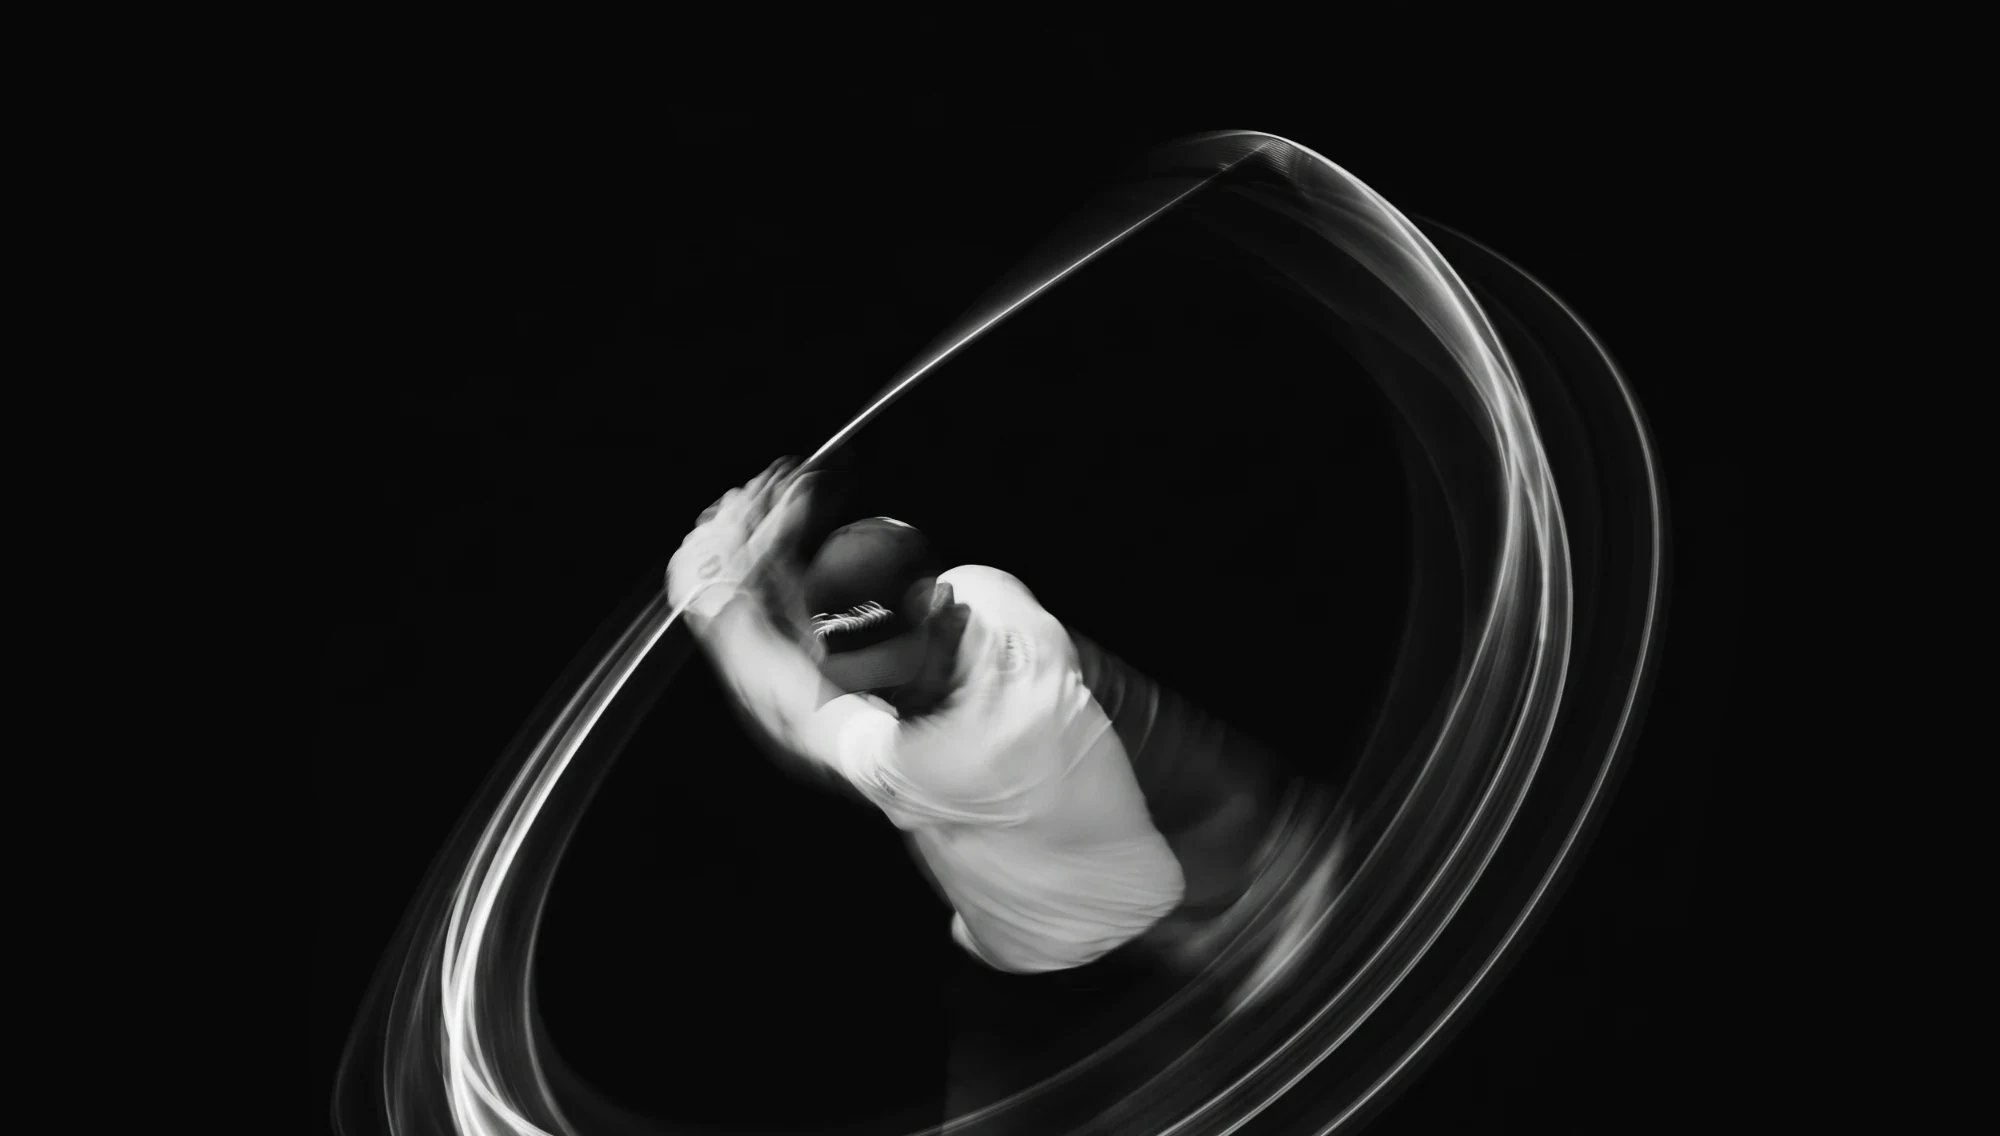
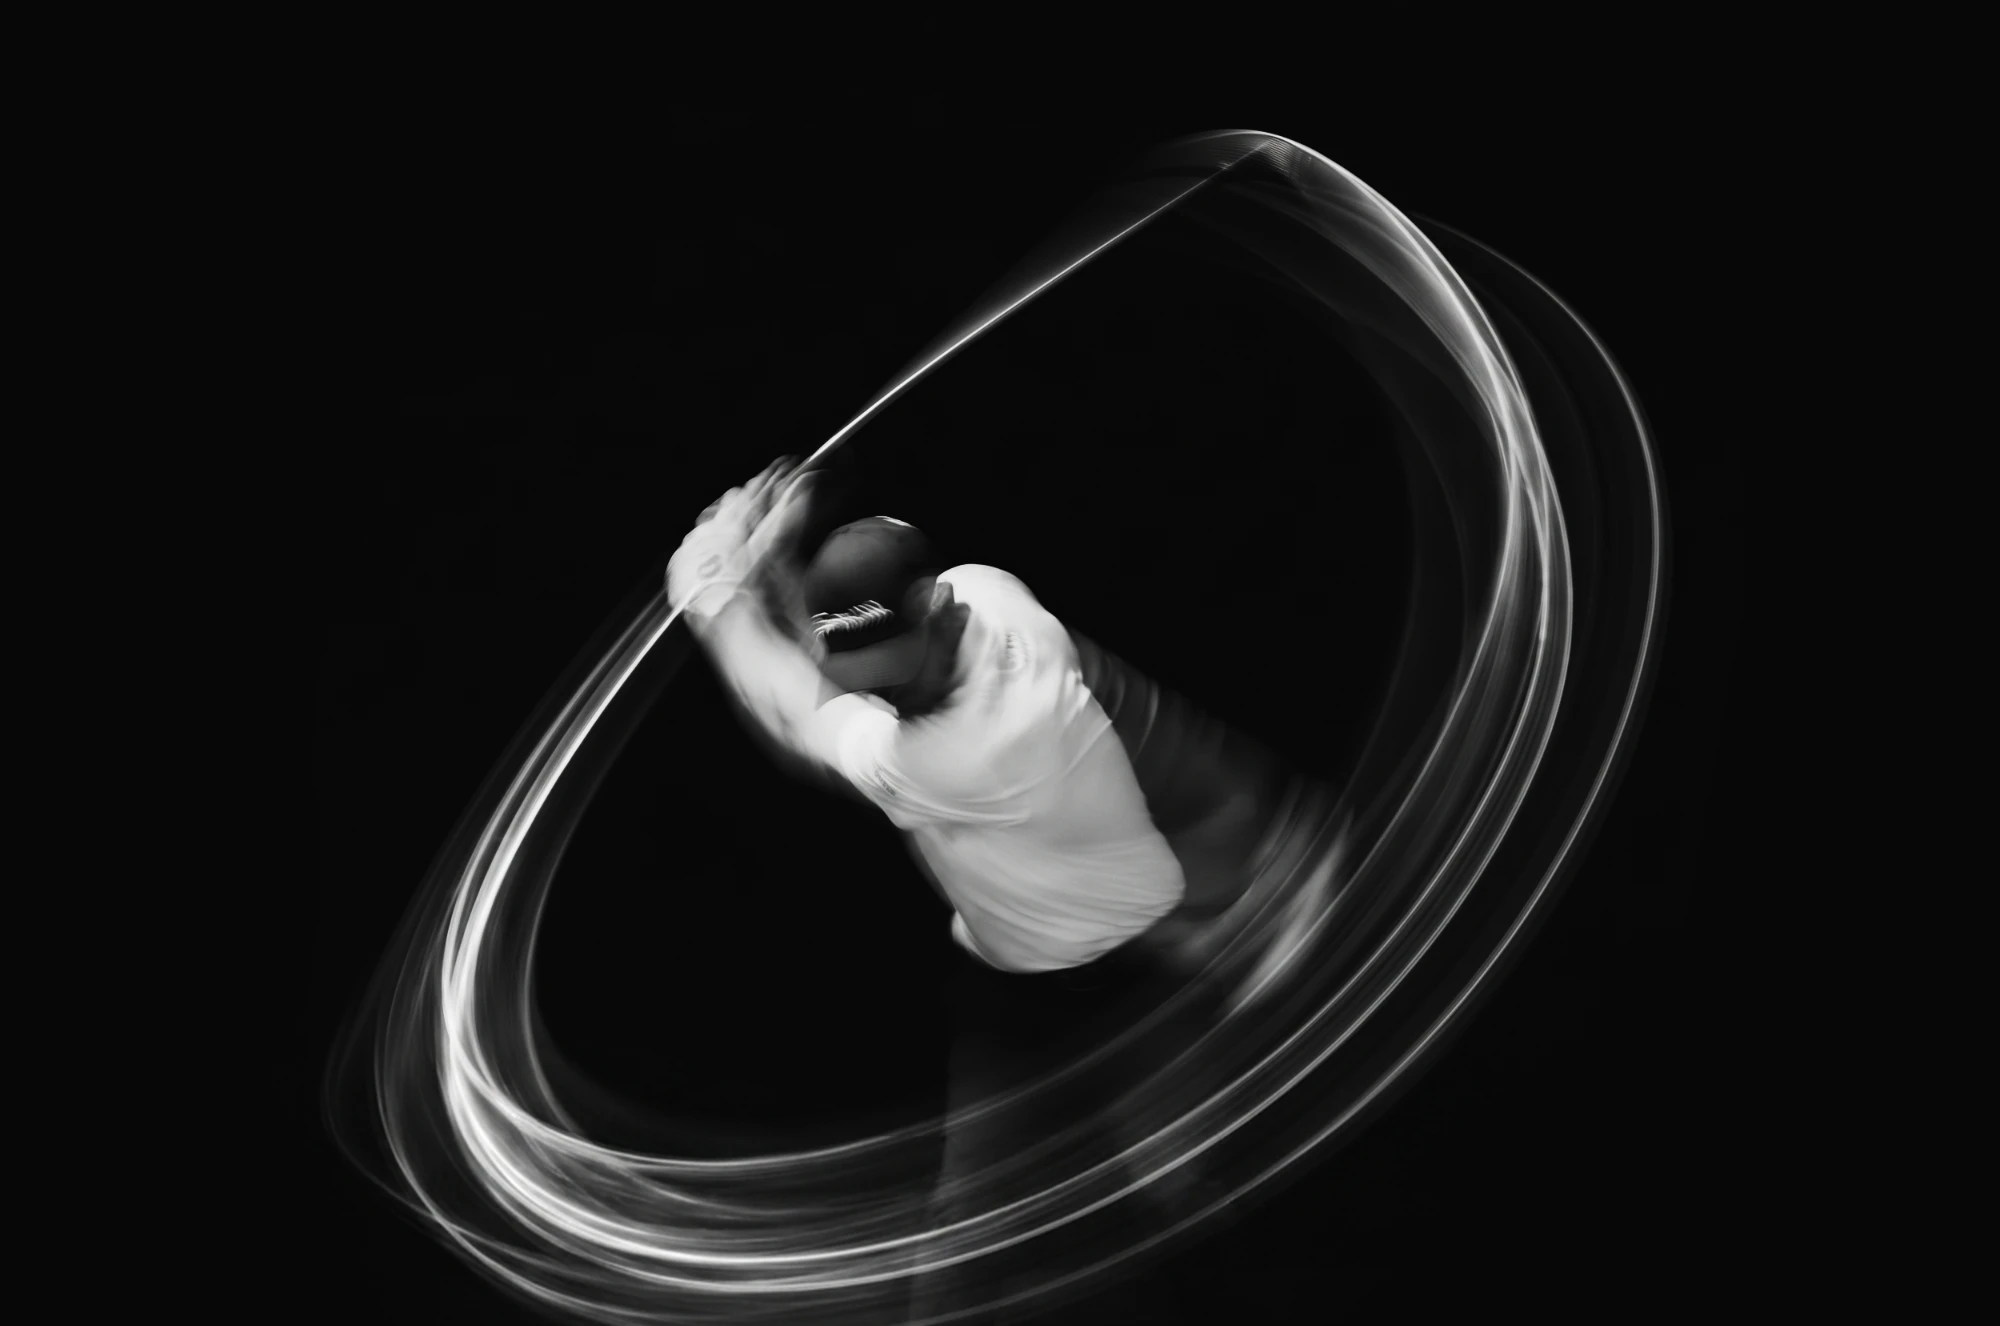
Intro: use full uncropped image; fit whole image on landscape, fill on portrait
Claude-Session: https://claude.ai/code/session_01SGYaMXQ3HristD469YbqMY

Changed region(s): [[0.186, 0.0924, 0.837, 1.0]]

diff --git a/css/style.css b/css/style.css
@@ -298,12 +298,16 @@ ul { list-style: none; }
 .intro img {
   width: 100%;
   height: 100%;
-  object-fit: cover; /* 창 비율에 맞춰 화면을 가득 채움 */
+  object-fit: contain; /* 창 비율에 맞춰 크기 자동 조절 — 이미지 전체가 보이고, 남는 공간은 같은 검은 배경 */
   opacity: 0;
   transform: scale(1.04);
   transition: opacity .7s ease, transform 2.9s cubic-bezier(.2, .7, .2, 1);
 }
 .intro.is-shown img { opacity: 1; transform: scale(1); }
+/* 세로로 긴 화면(휴대폰): 화면을 가득 채우고 인물을 중앙에 */
+@media (max-aspect-ratio: 1/1) {
+  .intro img { object-fit: cover; object-position: 52% 50%; }
+}
 .intro.is-out { opacity: 0; visibility: hidden; }
 
 @media (prefers-reduced-motion: reduce) {
